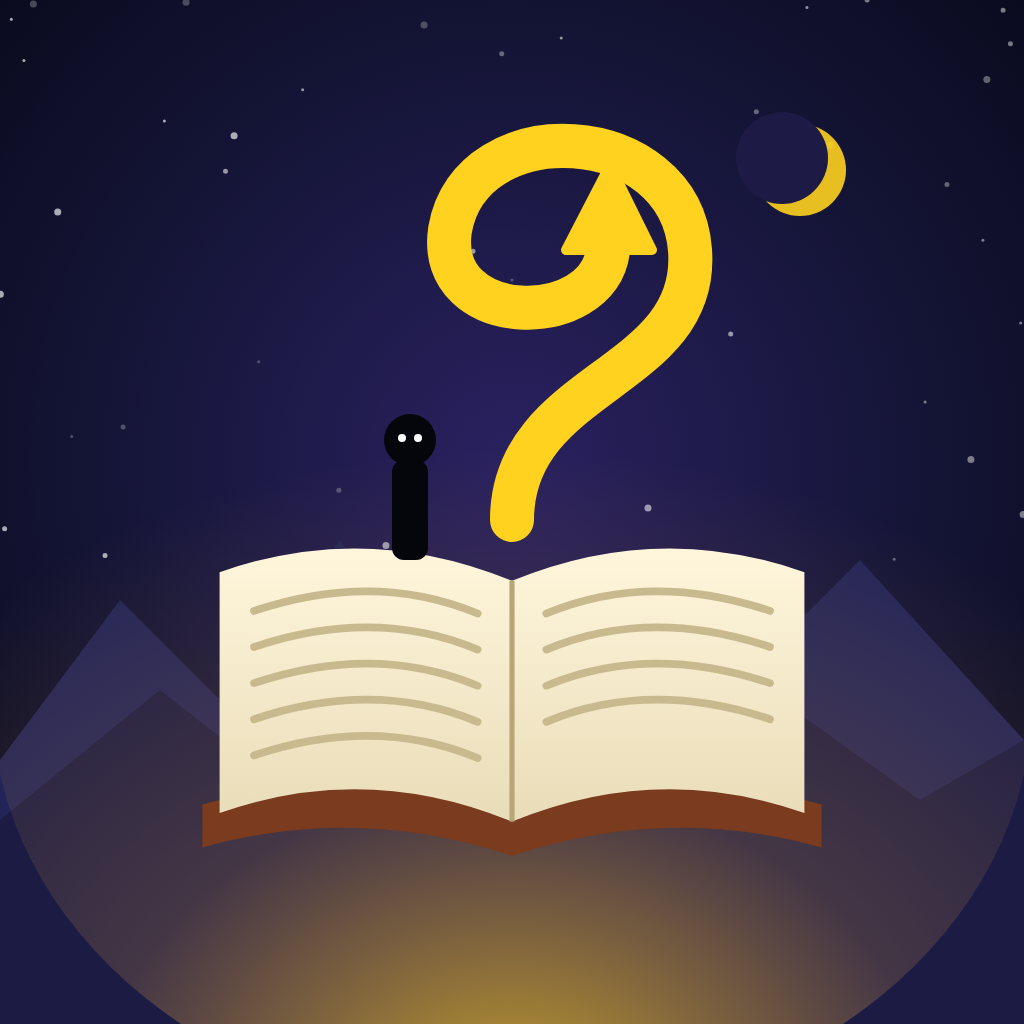
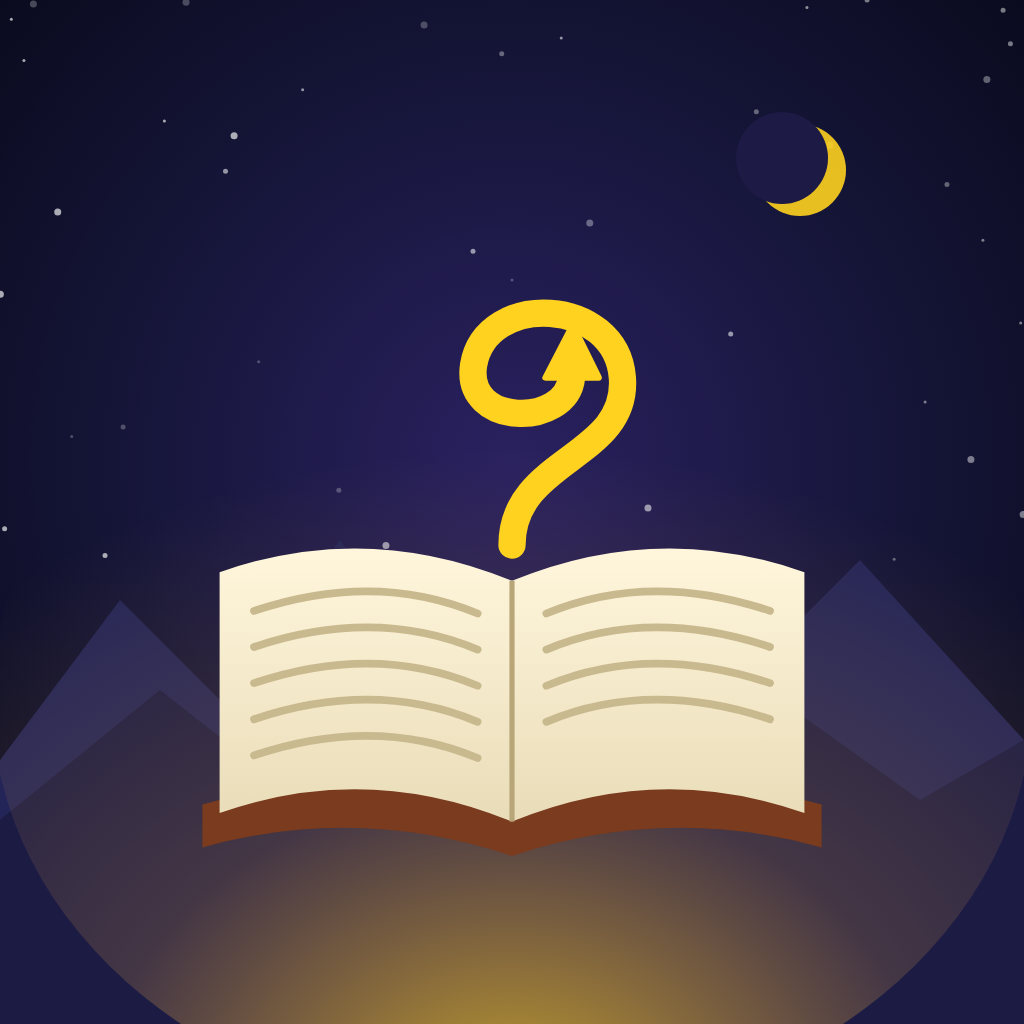
Profile picture A: remove figure, smaller twist arrow
Claude-Session: https://claude.ai/code/session_01NBgYhn8kR2SXHvFhFEetMy

Changed region(s): [[0.4062, 0.0938, 0.7188, 0.5625], [0.375, 0.4062, 0.4375, 0.5625]]

diff --git a/branding/profilbild.html b/branding/profilbild.html
@@ -29,9 +29,8 @@ if(v==='a'){
   // Variante A: Buch, aus dem ein gelber Twist-Pfeil wirbelt; im Licht steht eine dunkle Gestalt
   art = `${mountains}<ellipse cx="512" cy="700" rx="520" ry="420" fill="url(#light)"/>
    <g transform="translate(512 770) scale(.86)">${book()}</g>
-   <path d="M 512 520 C 512 380 700 380 690 250 C 680 120 470 110 450 230 C 435 330 600 330 608 250" stroke="#ffd21f" stroke-width="44" fill="none" stroke-linecap="round"/>
-   <path d="M 610 165 L 566 250 L 652 250 Z" fill="#ffd21f" stroke="#ffd21f" stroke-width="10" stroke-linejoin="round"/>
-   <g transform="translate(410 580)"><rect x="-18" y="-120" width="36" height="100" rx="12" fill="#05050c"/><circle cx="0" cy="-140" r="26" fill="#05050c"/><circle cx="-8" cy="-142" r="4" fill="#fff"/><circle cx="8" cy="-142" r="4" fill="#fff"/></g>`;
+   <g transform="translate(512 545) scale(.62) translate(-512 -520)"><path d="M 512 520 C 512 380 700 380 690 250 C 680 120 470 110 450 230 C 435 330 600 330 608 250" stroke="#ffd21f" stroke-width="44" fill="none" stroke-linecap="round"/>
+   <path d="M 610 165 L 566 250 L 652 250 Z" fill="#ffd21f" stroke="#ffd21f" stroke-width="10" stroke-linejoin="round"/></g>`;
 } else {
   // Variante B: Das Buch als Figur mit großen Augen, Seite dreht sich zum Twist
   art = `${mountains}<ellipse cx="512" cy="760" rx="520" ry="400" fill="url(#light)"/>
